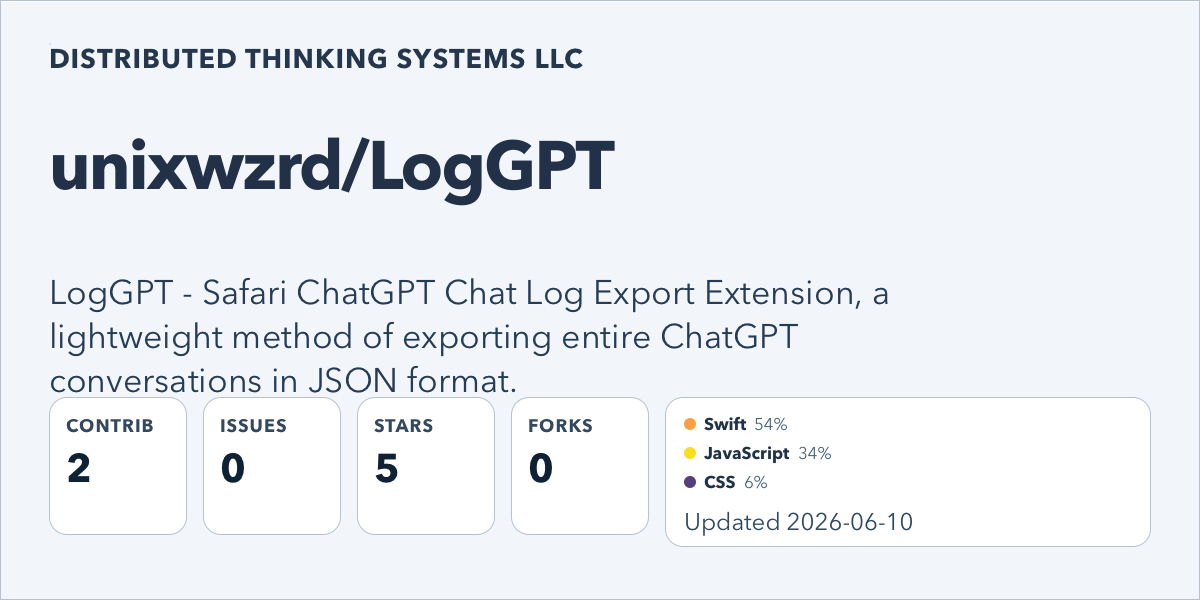
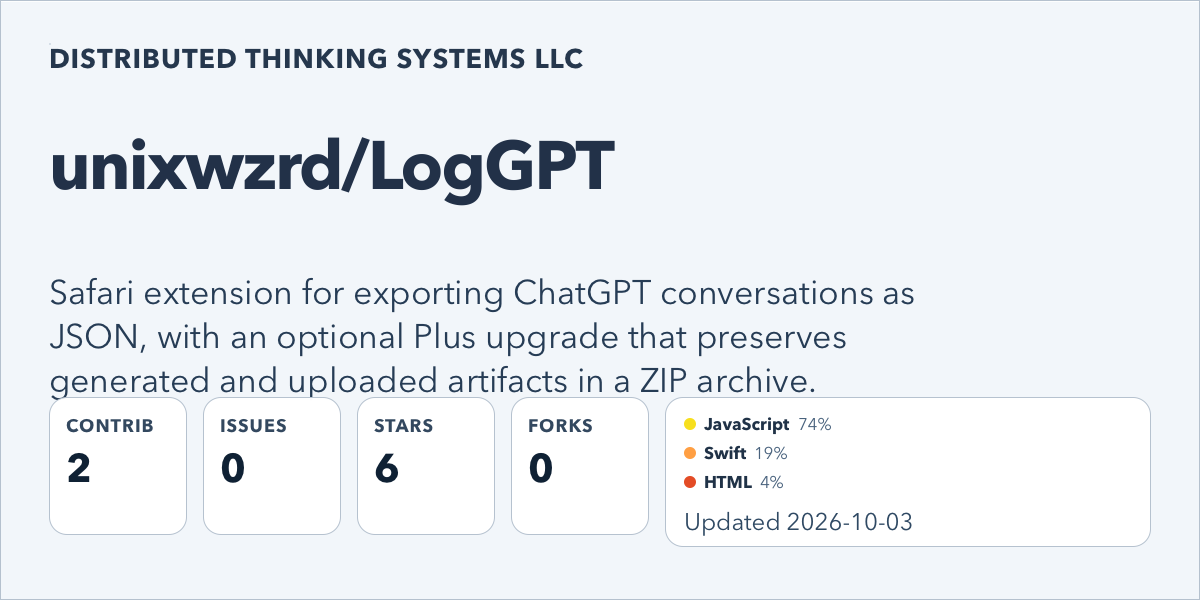
updates to teh site

diff --git a/utils/bin/test_fetch_og.py b/utils/bin/test_fetch_og.py
@@ -16,6 +16,55 @@ class FetchOgFallbackTests(unittest.TestCase):
     def tearDown(self):
         fetch_og.REFRESH_EXISTING_IMAGES = False
 
+    def test_metadata_errors_are_not_treated_as_private_repositories(self):
+        for status in (403, 429, 500):
+            with self.subTest(status=status):
+                response = mock.Mock(status_code=status)
+                response.raise_for_status.side_effect = requests.HTTPError(response=response)
+                with mock.patch.object(fetch_og.requests, "get", return_value=response):
+                    with self.assertRaises(requests.HTTPError):
+                        fetch_og.fetch_github_data("example", "project")
+        with mock.patch.object(fetch_og.requests, "get", side_effect=requests.Timeout):
+            with self.assertRaises(requests.Timeout):
+                fetch_og.fetch_github_data("example", "project")
+
+    def test_not_found_keeps_private_repository_fallback(self):
+        response = mock.Mock(status_code=404)
+        with mock.patch.object(fetch_og.requests, "get", return_value=response):
+            self.assertIsNone(fetch_og.fetch_github_data("example", "private-project"))
+        response.raise_for_status.assert_not_called()
+
+    def test_metadata_failure_aborts_without_writing_partial_catalog(self):
+        repositories = [{"owner": "example", "name": name} for name in ("First", "Second")]
+        with tempfile.TemporaryDirectory() as tmpdir:
+            with mock.patch.object(fetch_og, "setup_environment", return_value=Path(tmpdir)), mock.patch.object(
+                fetch_og, "load_repository_config", return_value=repositories
+            ), mock.patch.object(
+                fetch_og, "fetch_github_data", side_effect=[{"visibility": "public"}, requests.Timeout()]
+            ), mock.patch.object(
+                fetch_og, "create_project_entry", return_value={"name": "First"}
+            ), mock.patch.object(fetch_og, "generate_project_files"), mock.patch.object(
+                fetch_og, "write_projects_data"
+            ) as write_projects_data:
+                with self.assertRaises(SystemExit) as error:
+                    fetch_og.main()
+                self.assertEqual(error.exception.code, 1)
+                write_projects_data.assert_not_called()
+
+    def test_refresh_preserves_configured_project_order(self):
+        names = ["Third", "First", "Second"]
+        repositories = [{"owner": "example", "name": name} for name in names]
+        with tempfile.TemporaryDirectory() as tmpdir:
+            with mock.patch.object(fetch_og, "setup_environment", return_value=Path(tmpdir)), mock.patch.object(
+                fetch_og, "load_repository_config", return_value=repositories
+            ), mock.patch.object(fetch_og, "fetch_github_data", return_value={"visibility": "public"}), mock.patch.object(
+                fetch_og, "create_project_entry", side_effect=lambda **kwargs: {"name": kwargs["name"]}
+            ), mock.patch.object(fetch_og, "generate_project_files"), mock.patch.object(
+                fetch_og, "write_projects_data", return_value=True
+            ) as write_projects_data:
+                fetch_og.main()
+                self.assertEqual([entry["name"] for entry in write_projects_data.call_args.args[0]], names)
+
     def test_format_title_preserves_llm_acronym(self):
         self.assertEqual(fetch_og.format_title("LLM-Ops-Kit"), "LLM Ops Kit")
 
@@ -119,6 +168,29 @@ class FetchOgFallbackTests(unittest.TestCase):
                 entry["banner_image_url"],
                 "/assets/images/projects/LogGPT/LogGPT-banner.png",
             )
+
+    def test_loggpt_config_uses_stats_card_and_preserves_banner(self):
+        base_dir = Path(__file__).resolve().parents[2]
+        repo_config = next(
+            repo for repo in fetch_og.load_repository_config(base_dir)
+            if repo["name"] == "LogGPT"
+        )
+        self.assertNotIn("image_url", repo_config["overrides"])
+        with mock.patch.object(
+            fetch_og, "generate_project_card", return_value="/assets/images/projects/LogGPT.png"
+        ) as generate_project_card, mock.patch.object(fetch_og, "cache_image") as cache_image:
+            entry = fetch_og.create_project_entry(
+                data={"visibility": "public", "description": "Export ChatGPT conversations."},
+                owner="unixwzrd", name="LogGPT", base_dir=base_dir, repo_config=repo_config,
+            )
+        self.assertEqual(entry["image_url"], "/assets/images/projects/LogGPT.png")
+        self.assertEqual(entry["banner_image_url"], "/assets/images/projects/LogGPT-banner.png")
+        generate_project_card.assert_called_once()
+        cache_image.assert_not_called()
+        catalog = yaml.safe_load((base_dir / "html/_data/github_projects.yml").read_text())
+        project = next(project for project in catalog["projects"] if project["name"] == "LogGPT")
+        self.assertEqual(project["image_url"], entry["image_url"])
+        self.assertEqual(project["banner_image_url"], entry["banner_image_url"])
 
     def test_create_project_entry_prefers_generated_local_card_for_public_repo(self):
         with tempfile.TemporaryDirectory() as tmpdir:
@@ -370,3 +442,4 @@ class FetchOgFallbackTests(unittest.TestCase):
 
 if __name__ == "__main__":
     unittest.main()
+

diff --git a/utils/bin/fetch_og.py b/utils/bin/fetch_og.py
@@ -490,7 +490,11 @@ def fetch_url_data(url: str, parse_html: bool = False) -> Optional[Dict]:
 
 
 def fetch_github_data(owner: str, repo: str) -> Optional[Dict]:
-    """Fetch repository data from GitHub API."""
+    """Fetch repository metadata; only 404 selects the private/not-found fallback.
+
+    Other request errors propagate so a failed refresh cannot reclassify a
+    public project or replace the existing catalog with partial results.
+    """
     url = f"https://api.github.com/repos/{owner}/{repo}"
     try:
         response = requests.get(url, headers=DEFAULT_HEADERS, timeout=10)
@@ -506,7 +510,7 @@ def fetch_github_data(owner: str, repo: str) -> Optional[Dict]:
         return data
     except requests.RequestException as e:
         logger.error("Error fetching GitHub data for %s/%s: %s", owner, repo, e)
-        return None
+        raise
 
 
 def fetch_contributors_count(owner: str, repo: str) -> Optional[int]:
@@ -1029,6 +1033,9 @@ def main():
 
             processed_projects.append(project_data)
 
+        except requests.RequestException as e:
+            logger.error("Project metadata refresh aborted; existing catalog left unchanged: %s", e)
+            raise SystemExit(1) from e
         except Exception as e:
             logger.error("Failed to process repository %s: %s", name, e)
             continue
@@ -1038,3 +1045,4 @@ def main():
 
 if __name__ == "__main__":
     main()
+

diff --git a/CHANGELOG.md b/CHANGELOG.md
@@ -2,6 +2,11 @@
 
 This changelog records changes to site behavior, operational tooling, scripts, build validation, and shared templates. Routine articles, post corrections, publication dates, and social copy do not require entries. The entries below were backfilled on September 2 from repository history; their dates identify the recorded changes, not a verified deployment date.
 
+## 2026-11-12: Project metadata and LogGPT thumbnail
+
+- Removed the LogGPT icon override so the normal project refresh generates and selects its GitHub statistics card. Preserved the separate banner and article artwork, with regression coverage for thumbnail selection and banner retention.
+- Stop project metadata refreshes on request errors instead of treating them as private repositories or writing a partial catalog. Keep the existing 404 fallback and configured project order; restored the GitHub-confirmed public status of WebReader, VenvUtil, and TorchDevice. Added failure-path and ordering regressions.
+
 ## 2026-11-09: Comparison-symbol CI correction
 
 - Corrected the Secrets Kit comparison test to expect the rendered em dash for undocumented features, using a Unicode escape so pre-commit text cleanup cannot turn the expectation back into a plain hyphen. Retained the exact symbol-set assertion, accessibility checks, and all deployment validation gates; no page or workflow behavior changed.
@@ -668,6 +673,7 @@ This changelog records changes to site behavior, operational tooling, scripts, b
 - Set up pre-commit hooks
 - Update permalinks to meet new requirements
 - Add required front matter to all pages
+
 
 
 
